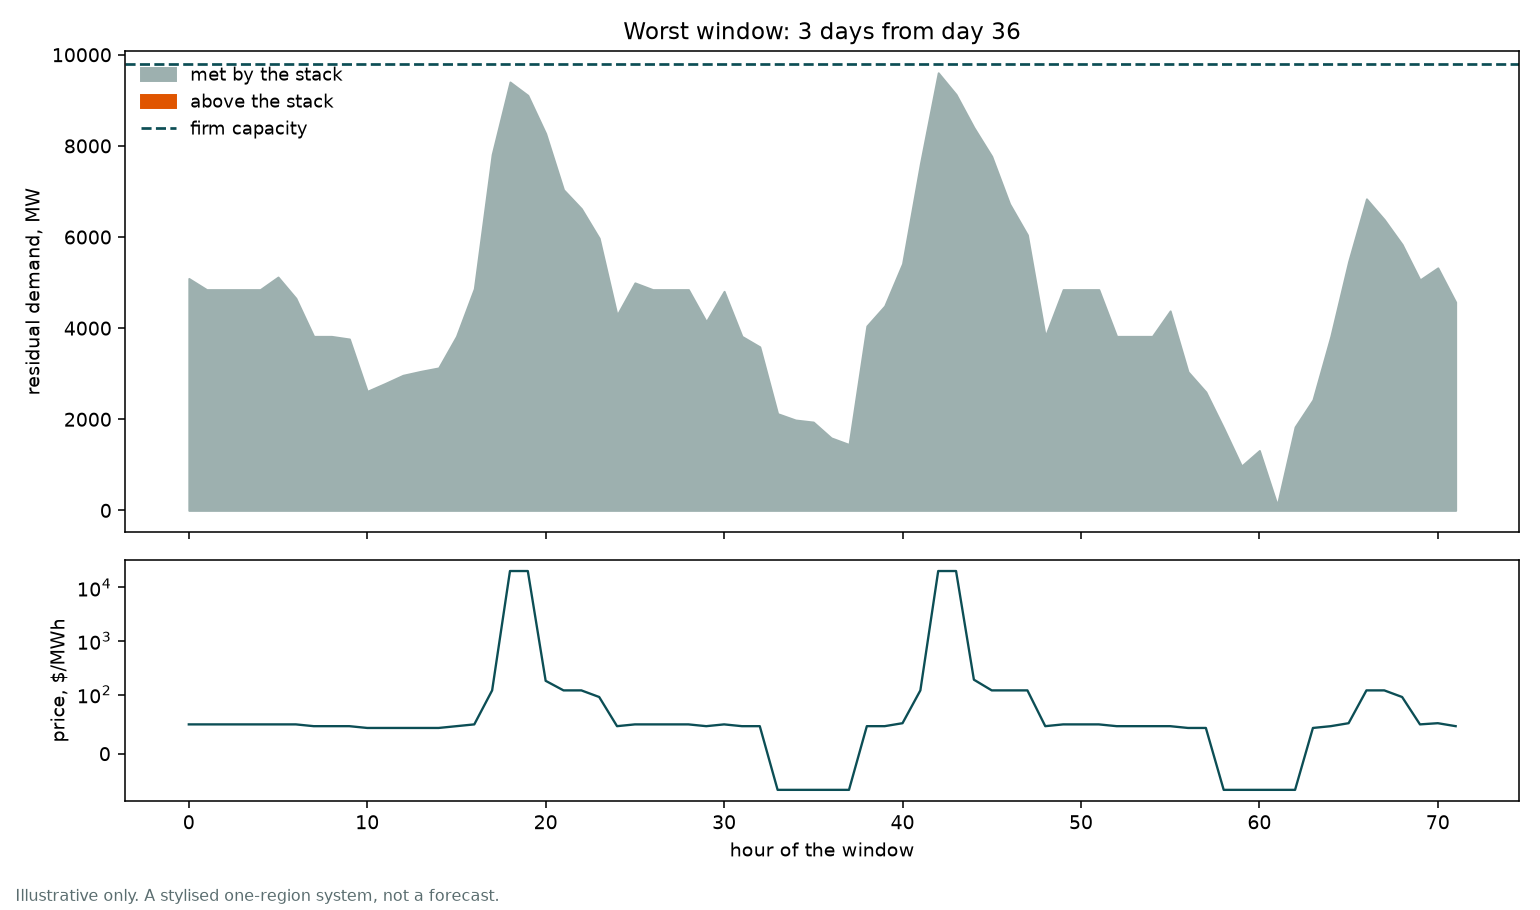
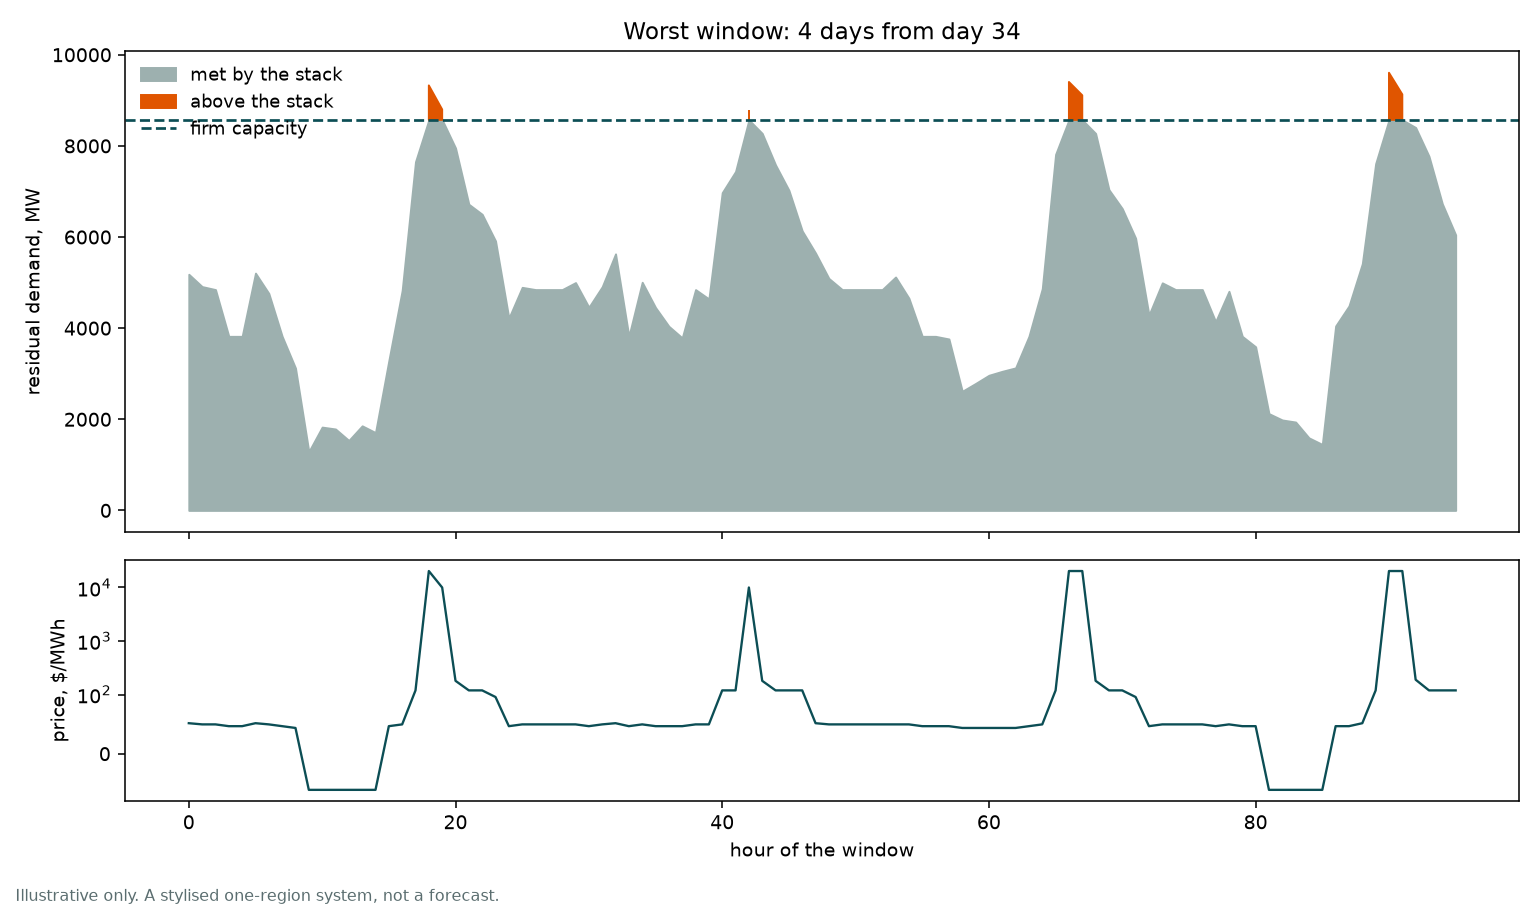
One source of truth for firm capacity: the worst window was measured against a stack that no longer existed
A regression from this morning's hydro fix, found by checking what that change could
have broken rather than by a test.

Hydro is now scheduled against its budget and netted out of the residual before the
stack is built, so the stack the ladder measures against holds 8,571 MW. The command
line re-summed the fleet independently and still counted hydro, giving 9,806 MW, and
handed that to both the worst-window search and the worst-week chart. Every hour was
therefore compared against 1,235 MW of capacity the residual no longer contained.

It changed the answer, not just a label: the located worst window moves from three
days at day 36 back to four days at day 34. That window draws the worst-week chart
and sets the days parameter of a storage unit's firm contribution, so the telemetry
the duration-curve exercise is built on was pointing at the wrong days.

The dispatch now reports the firm capacity it actually used and the command line
reads it, so a consumer cannot disagree with the dispatcher about what the residual
excludes. A test pins that they agree and that the figure is below the fleet sum by
hydro's capacity.

53 tests.

diff --git a/src/esem_sandbox/cli.py b/src/esem_sandbox/cli.py
@@ -22,12 +22,6 @@ from . import plots
 DEFAULT_PEAK_MW = 12500.0
 
 
-def _firm_capacity(settings, year: int) -> float:
-    return sum(u.available_mw for u in settings.fleet
-               if u.in_service(year)
-               and u.technology in ("coal", "ccgt", "ocgt", "hydro", "import"))
-
-
 def run(args: argparse.Namespace) -> int:
     settings = load_settings()
     bundle = generate_bundle(settings.weather["seed"],
@@ -65,9 +59,14 @@ def run(args: argparse.Namespace) -> int:
         writer.writeheader()
         writer.writerows(rows)
 
-    firm = _firm_capacity(settings, args.year)
     worst_label = max(results, key=lambda k: results[k].total_unserved_gwh)
     worst = results[worst_label]
+    # The firm capacity comes from the dispatch that produced this result, not
+    # from a second sum over the fleet. Hydro is scheduled against its budget and
+    # netted out of the residual, so a threshold that adds it back double counts
+    # it: the worst-window search and the chart were measuring against 1,235 MW
+    # the residual no longer contained.
+    firm = worst.firm_capacity_mw
     window = locate_worst_window(worst.residual_mw, firm)
     plots.worst_week(worst, window, firm, os.path.join(args.out, "worst_week.png"))
     plots.price_duration(results, os.path.join(args.out, "price_duration.png"))

diff --git a/tests/test_dispatch.py b/tests/test_dispatch.py
@@ -312,3 +312,22 @@ def test_the_threshold_fast_path_agrees_with_the_sequential_loop(settings):
     assert administered.any(), (
         "a threshold breach in the first 167 hours must not be skipped"
     )
+
+
+def test_reported_firm_capacity_matches_what_the_residual_excludes(settings, bundle):
+    """One source of truth for the stack the residual is measured against.
+
+    Hydro is scheduled against its budget and netted out of the residual, so any
+    consumer that re-sums the fleet and includes hydro double counts it. That is
+    exactly what the worst-window search and the worst-week chart were doing: a
+    threshold 1,235 MW above the stack the ladder itself used.
+    """
+    res = _year(settings, bundle, 4)
+    thermal = [u for u in settings.fleet
+               if u.in_service(2026) and u.technology != "hydro"]
+    _, caps, _ = _offer_stack(thermal, settings)
+    assert res.firm_capacity_mw == pytest.approx(float(caps.sum()))
+    hydro = sum(u.available_mw for u in settings.fleet
+                if u.technology == "hydro" and u.in_service(2026))
+    assert hydro > 0
+    assert res.firm_capacity_mw < float(caps.sum()) + hydro

diff --git a/src/esem_sandbox/core/dispatch.py b/src/esem_sandbox/core/dispatch.py
@@ -39,6 +39,7 @@ class DispatchResult:
     unserved_mwh: np.ndarray = field(default_factory=lambda: np.zeros(0))
     ladder_mw: np.ndarray = field(default_factory=lambda: np.zeros(0))
     administered_hours: np.ndarray = field(default_factory=lambda: np.zeros(0, bool))
+    firm_capacity_mw: float = 0.0          # the stack the ladder measured against
     water_value_per_mwh: float = 0.0
     storage_passes: int = 0
     storage_converged: bool = False
@@ -494,6 +495,7 @@ def dispatch_year(settings: Settings, year: int, demand_mw: np.ndarray,
         unserved_mwh=unserved,
         ladder_mw=ladder_mw,
         administered_hours=administered,
+        firm_capacity_mw=firm_capacity,
         water_value_per_mwh=water,
         storage_passes=passes,
         storage_converged=converged,
